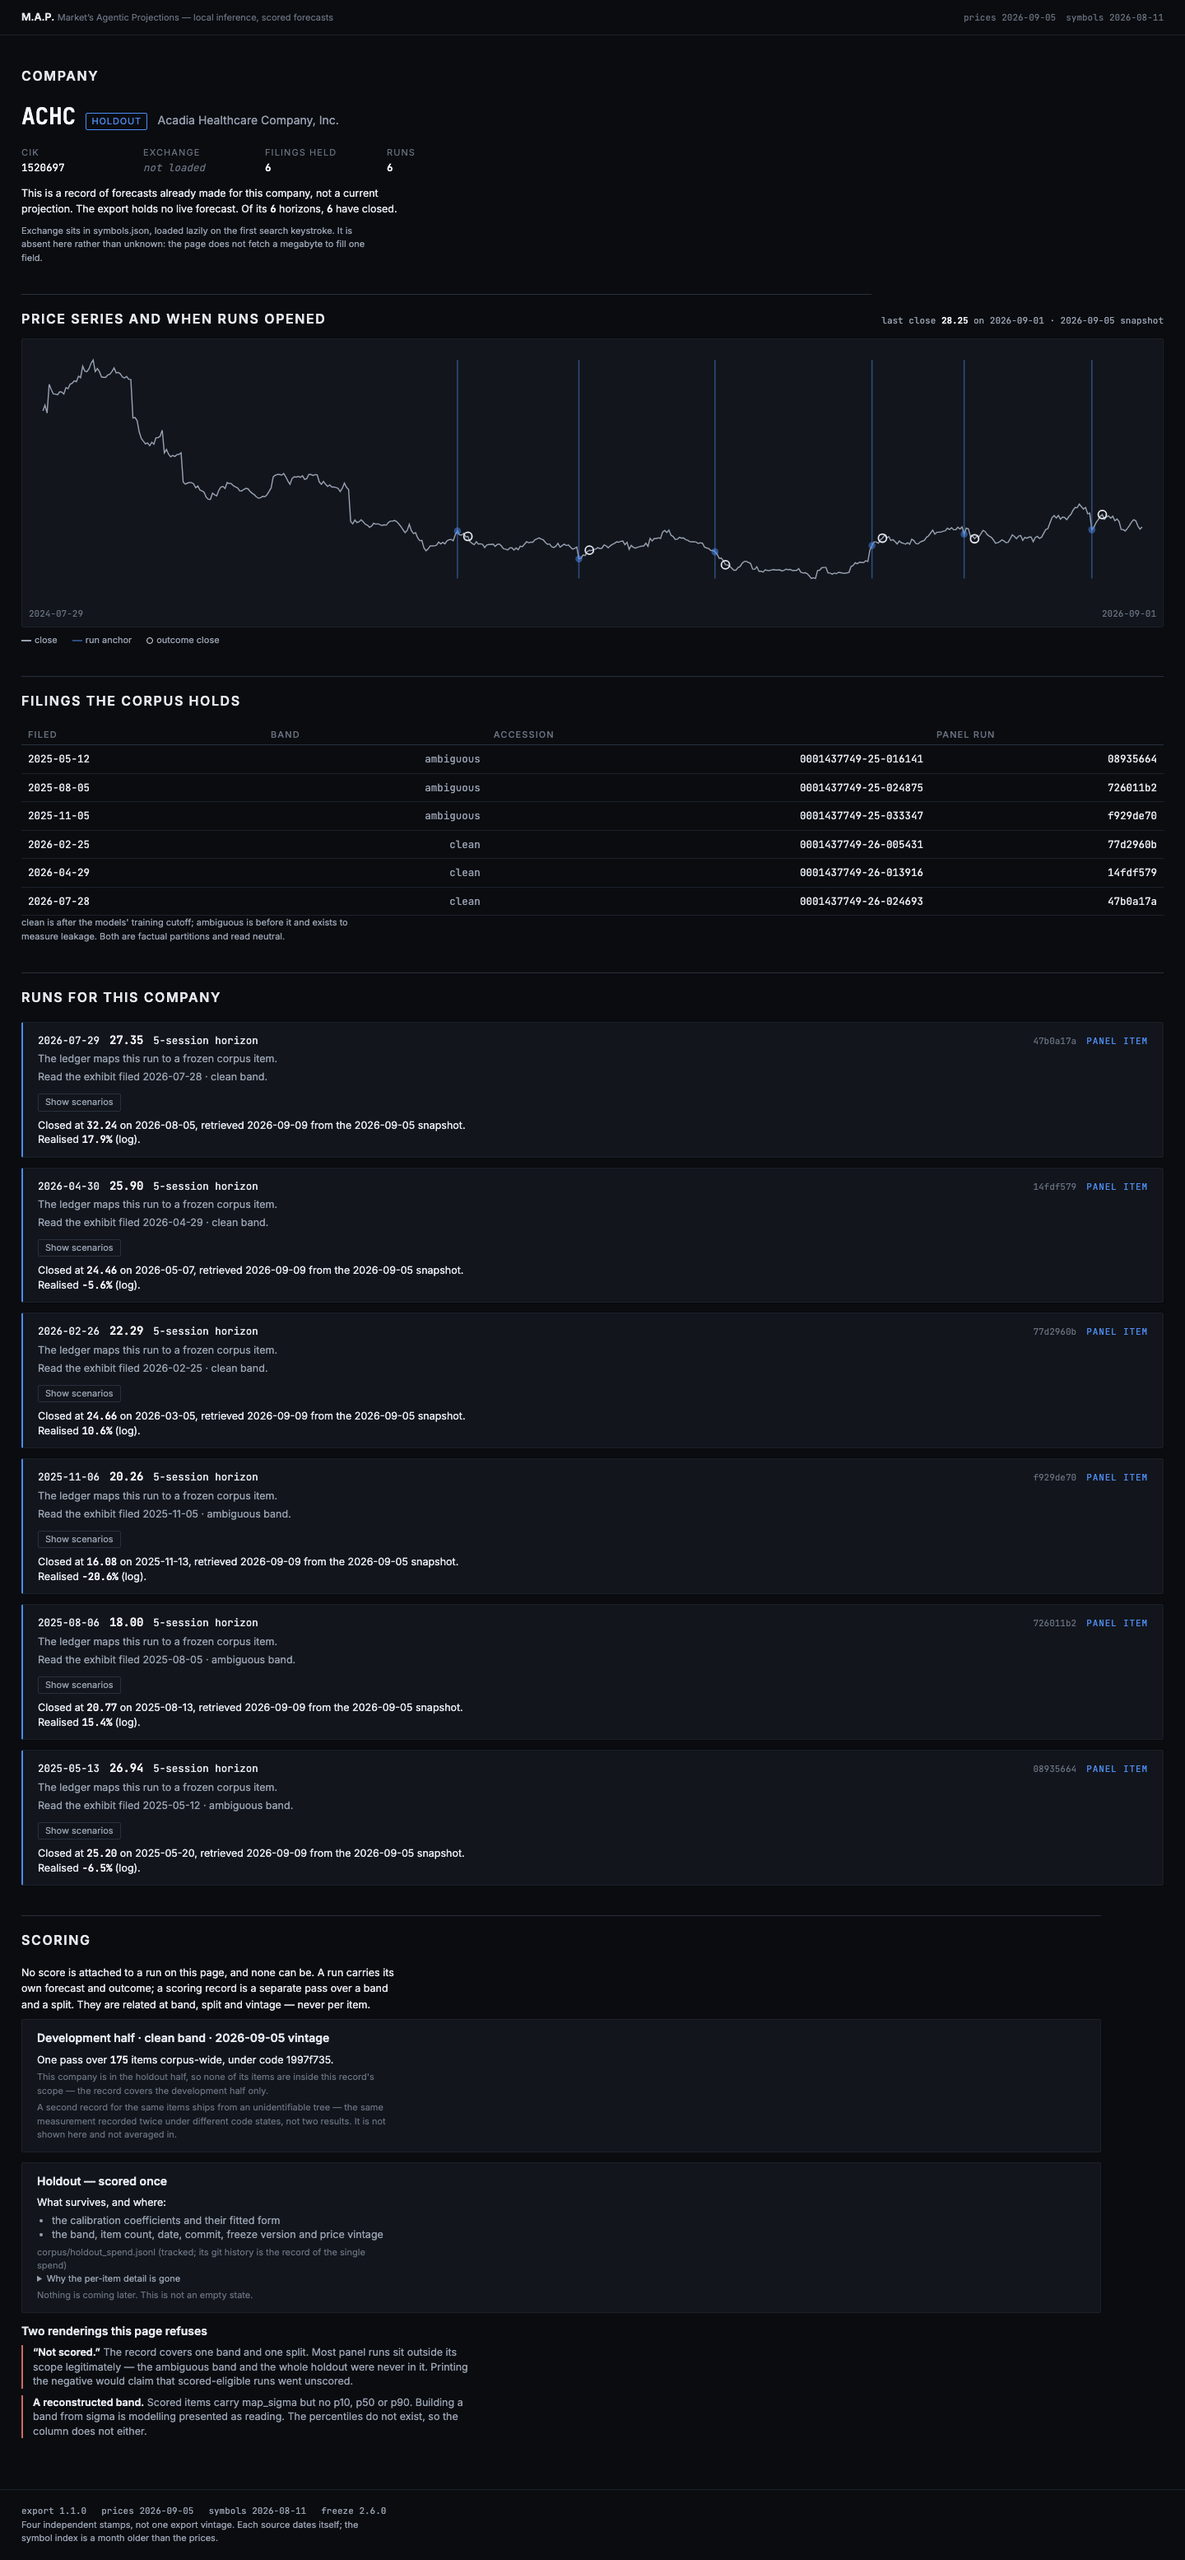
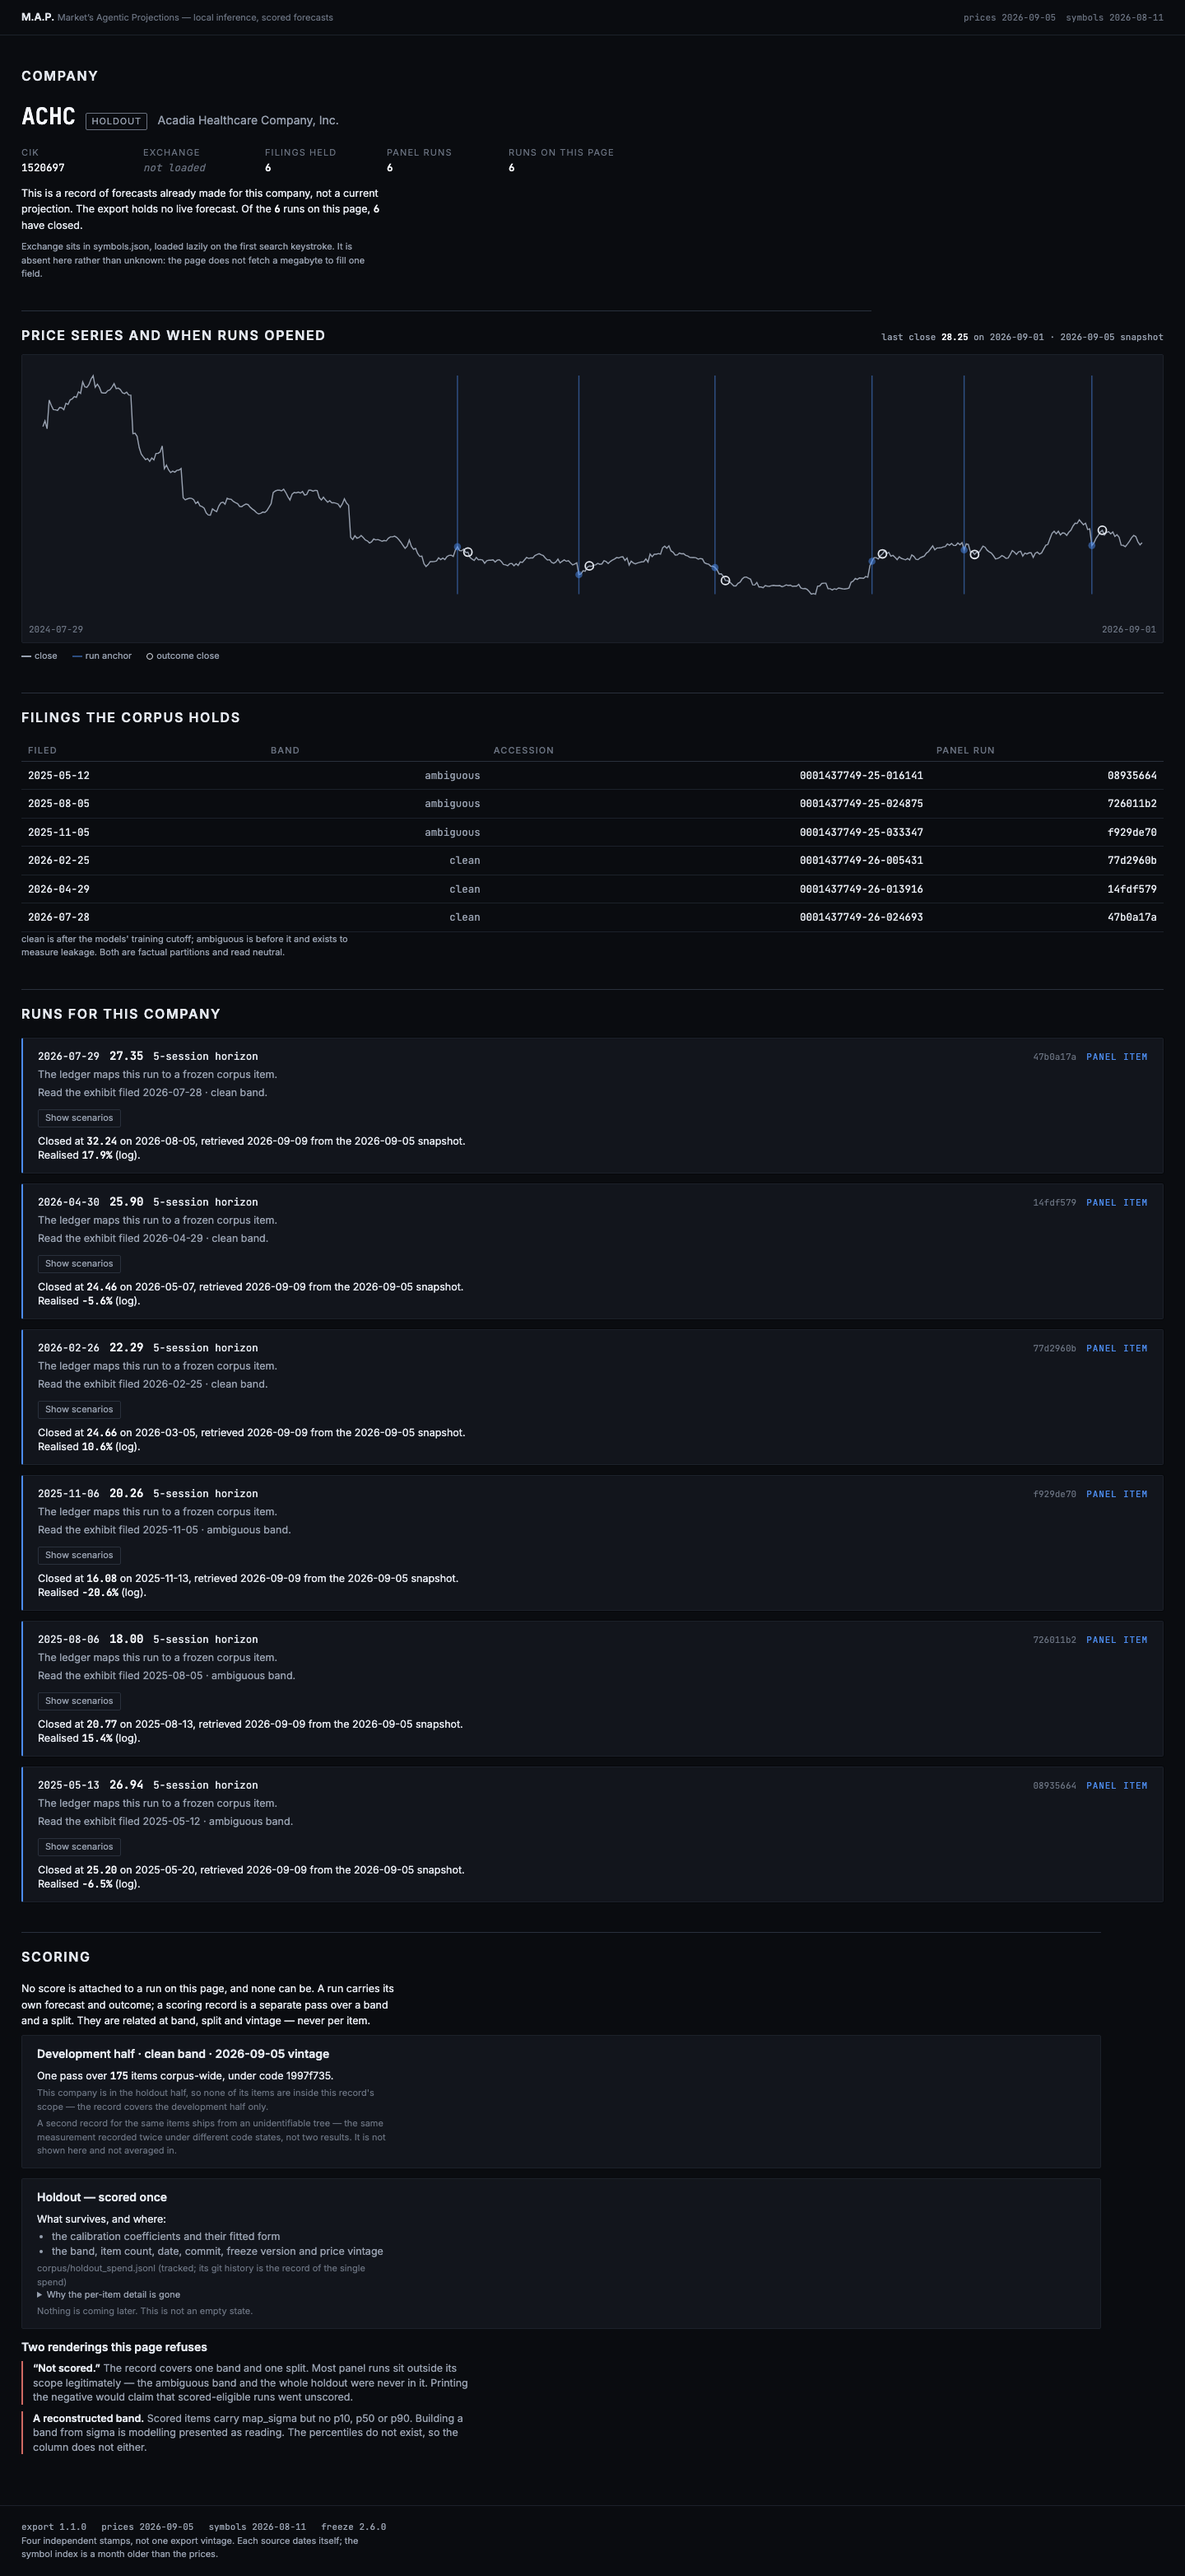
Five screen defects from reviewing design/screens
One commit because the four-defect fixes were never committed: the command that
should have made them ran in the wrong repository, so they sat in the working
tree and the badge change swept them up. Content is right; the message now
covers what is actually here.

1. THE RUN COUNTS WERE TWO DIFFERENT THINGS, NEITHER NAMED. Search counts panel
   runs -- corpus.json's filings[].runs -- and the company page counted every run
   for the ticker. TSLA is 12 and 16, the difference being 4 repeats; ACGL is 5
   and 5, with 6 filings because one settled without a run. Both are legitimate,
   so both now say which: the search row reads "panel runs", the company page
   shows "Panel runs" and "Runs on this page" as separate facts.

2. THE FILING+1 DERIVATION AGAIN, its third appearance. panelRunBlock found a
   repeat's filing with `filing + 1 day === anchor`, right for 635 of the 701
   panel runs and wrong for the 66 whose anchor IS the filing date. TSLA's
   2026-01-02 is one, so three of its repeats printed ATI's "whose panel run does
   not exist" while a9b0c9d8 sat in the filings table on the same page.

   A repeat's panel run is now the ledger run at the same anchor -- 73 of 74
   resolve, ATI is the one true absence -- and the filing date comes from that
   run's ledger_item rather than arithmetic. Where no panel run exists there is
   nothing to carry the date, so the filing is matched on anchor OR anchor-1,
[…]

diff --git a/ui/assets/js/ui/company-runs.js b/ui/assets/js/ui/company-runs.js
@@ -36,11 +36,11 @@ export function renderRuns(root, { runs, company, open, onToggle }) {
 
   const list = document.createElement("div");
   list.className = "cmp-cards";
-  for (const run of rows) list.append(card(run, company, open, onToggle));
+  for (const run of rows) list.append(card(run, company, open, onToggle, rows));
   root.append(list);
 }
 
-function card(run, company, open, onToggle) {
+function card(run, company, open, onToggle, siblings) {
   const art = document.createElement("article");
   art.className = "cmp-card";
   art.dataset.relation = run.corpus_relation;
@@ -86,7 +86,7 @@ function card(run, company, open, onToggle) {
     art.append(p);
   }
 
-  if (run.corpus_relation === "repeat_of_exhibit") art.append(panelRunBlock(run, company));
+  if (run.corpus_relation === "repeat_of_exhibit") art.append(panelRunBlock(run, company, siblings));
 
   art.append(disclosure(run, open, onToggle));
   art.append(outcomeBlock(run));
@@ -99,9 +99,22 @@ function card(run, company, open, onToggle) {
 /* The three panel-run states                                          */
 /* ------------------------------------------------------------------ */
 
-function panelRunBlock(run, company) {
-  const filed = filingReadBy(run, company);
-  const panel = filed && filed.ran ? filed : null;
+function panelRunBlock(run, company, siblings) {
+  /* A repeat's panel run is the LEDGER RUN AT THE SAME ANCHOR, not a filing found
+     by date arithmetic. This resolved by `filing + 1 day`, which is right for 635
+     of the 701 panel runs and wrong for the 66 whose anchor IS the filing date —
+     TSLA's 2026-01-02 is one, so three of its repeats fell through to "(filing
+     not identified)" and printed ATI's copy about a panel run that does not
+     exist, while a9b0c9d8 sat in the filings table on the same page.
+
+     Anchor matching resolves 73 of the 74 repeats. ATI's is the one true
+     absence. */
+  const panel = siblings.find(
+    (r) => r.corpus_relation === "ledger_item" && r.anchor_date === run.anchor_date,
+  ) ?? null;
+  const filed = panel && !isAbsent(panel.ledger_item)
+    ? panel.ledger_item.filing_date          // carried, never derived
+    : filingNear(run, company);              // no panel run: the filing itself
 
   const box = document.createElement("div");
   box.className = panel ? "cmp-panel-link" : "cmp-panel-missing";
@@ -110,8 +123,10 @@ function panelRunBlock(run, company) {
     // STATE 1 — linked, and the link is marked inferred.
     box.append(
       document.createTextNode("Read the exhibit filed "),
-      chromeText(panel.filed, "the filing date this repeat read"),
-      document.createTextNode("; a panel run is anchored "),
+      chromeText(filed, "the filing date this repeat read, from the panel run's ledger entry"),
+      document.createTextNode("; the panel's run is "),
+      chromeText(panel.run_id.slice(0, 8), "the panel run's abbreviated id"),
+      document.createTextNode(", anchored "),
       chromeText(run.anchor_date, "the anchor the pairing matched on"),
       document.createTextNode("."),
     );
@@ -142,7 +157,7 @@ function panelRunBlock(run, company) {
   box.append(
     document.createTextNode("Read the exhibit filed "),
     filed
-      ? chromeText(filed.filed, "the filing this repeat read")
+      ? chromeText(filed, "the filing this repeat read")
       : document.createTextNode("(filing not identified)"),
     document.createTextNode(
       ", whose panel run does not exist: the corpus settled that filing as a " +
@@ -153,10 +168,19 @@ function panelRunBlock(run, company) {
   return box;
 }
 
-/** The filing a repeat read, found the only way the export allows. A corpus run
-    opens the day after the filing it reads. */
-function filingReadBy(run, company) {
-  return company.filings.find((f) => nextDay(f.filed) === run.anchor_date) ?? null;
+/** The filing a repeat read, for the case where NO panel run exists to carry the
+    date. Used only there: where a panel run exists its `ledger_item.filing_date`
+    is carried and read directly.
+
+    An anchor is the resolved trading session for a forecast dated the day after
+    its filing, so it is the filing date or the next day — across all 701 panel
+    runs it is one of those two and never anything else (66 and 635). Matching
+    both is exhaustive; matching only `+1` is the bug this replaced. */
+function filingNear(run, company) {
+  const hit = company.filings.find(
+    (f) => f.filed === run.anchor_date || nextDay(f.filed) === run.anchor_date,
+  );
+  return hit ? hit.filed : null;
 }
 
 function nextDay(iso) {

diff --git a/ui/assets/js/ui/company-identity.js b/ui/assets/js/ui/company-identity.js
@@ -25,7 +25,11 @@ export function renderIdentity(root, { company, runs }) {
   tick.textContent = company.ticker;
   head.append(tick);
 
-  const badge = el("span", `cmp-badge cmp-badge--${company.split}`, company.split);
+  // No per-split class: the two halves are a factual partition and carry no
+  // colour. `data-split` stays as a hook for anything that needs to select on it
+  // without implying one half is the notable one.
+  const badge = el("span", "cmp-badge", company.split);
+  badge.dataset.split = company.split;
   badge.dataset.chrome = "which half of the panel this company is in";
   head.append(badge);
 
@@ -38,7 +42,11 @@ export function renderIdentity(root, { company, runs }) {
   // fetch 864 KB to fill one field.
   addFact(facts, "Exchange", el("em", "cmp-absent", "not loaded"));
   addFact(facts, "Filings held", renderFigure(figure(company.filings.length, MEASURED, "int")));
-  addFact(facts, "Runs", renderFigure(figure(countRuns(runs), MEASURED, "int")));
+  /* TWO COUNTS, because they are two things and a page that shows one unlabelled
+     disagrees with the search screen for no visible reason. TSLA: 12 panel runs
+     and 16 runs in all, the difference being 4 repeats. ACGL: 5 and 5. */
+  addFact(facts, "Panel runs", renderFigure(figure(panelRuns(company), MEASURED, "int")));
+  addFact(facts, "Runs on this page", renderFigure(figure(countRuns(runs), MEASURED, "int")));
   root.append(facts);
 
   root.append(standing(company, runs));
@@ -48,6 +56,15 @@ export function renderIdentity(root, { company, runs }) {
   // On a page already showing six runs it tells a reader nothing they cannot see.
 }
 
+/** Runs the ledger maps to this company's filings — what the search screen
+    counts, and what `corpus.json` holds. Excludes repeats and anything outside
+    the corpus. */
+function panelRuns(company) {
+  return company.filings.reduce((n, f) => n + f.run_ids.length, 0);
+}
+
+/** Every run for this ticker, across all four document sources: what this page
+    actually lists as cards. */
 function countRuns(runs) {
   // Four files, counted per source and summed here — never merged into one array
   // and filtered, which is how an out-of-corpus run reaches a corpus figure.
@@ -62,10 +79,10 @@ function standing(company, runs) {
   p.append(
     document.createTextNode(
       "This is a record of forecasts already made for this company, not a current " +
-        "projection. The export holds no live forecast. Of its ",
+        "projection. The export holds no live forecast. Of the ",
     ),
     renderFigure(figure(rows.length, MEASURED, "int")),
-    document.createTextNode(" horizons, "),
+    document.createTextNode(" runs on this page, "),
     renderFigure(figure(closed, MEASURED, "int")),
     document.createTextNode(" have closed."),
   );

diff --git a/ui/assets/styles/company.css b/ui/assets/styles/company.css
@@ -63,12 +63,20 @@
 }
 .cmp-name { color: var(--ink-2); font-size: var(--step-1); }
 
+/* The text measured 6.62:1 against the row and was never the problem — the
+   BORDER was. `--rule-2` on a sunken row is about 1.3:1, so the outline vanished
+   and the word floated, reading as a failed badge rather than a quiet one. The
+   holdout variant looked fine only because its accent border drew the shape. */
 .cmp-badge {
   font-size: var(--step--1); text-transform: uppercase; letter-spacing: .08em;
-  padding: .1rem .4rem; border-radius: var(--radius); border: 1px solid var(--rule-2);
+  padding: .1rem .4rem; border-radius: var(--radius); border: 1px solid var(--ink-3);
   color: var(--ink-2);
 }
-.cmp-badge--holdout { border-color: var(--accent); color: var(--accent); }
+/* NO COLOUR VARIANT. dev and holdout are a factual partition, like clean and
+   ambiguous, and those read neutral for exactly this reason. Accent means panel
+   membership in this page's colour discipline -- and both halves ARE the panel,
+   so accenting one implied a distinction that does not exist. The word says
+   which half; the colour says nothing, because there is nothing to say. */
 
 .cmp-facts {
   display: flex; flex-wrap: wrap; gap: var(--sp-3) var(--sp-7);
@@ -211,7 +219,15 @@
 /* ---- footer and empty state -------------------------------------- */
 .cmp-footer { padding-block: var(--sp-5); border-top: 1px solid var(--rule); }
 .cmp-stamps { display: flex; gap: var(--sp-5); flex-wrap: wrap; font-family: var(--font-mono); font-size: var(--step--1); color: var(--ink-2); }
-.cmp-empty { max-width: 58ch; margin: var(--sp-7) auto; }
+/* A page whose subject does not exist has one thing to say, so it says it in the
+   middle of the field rather than in a narrow column pinned to the top of a tall
+   empty one. min-height leaves room for the masthead and footer. */
+.cmp-empty {
+  max-width: 62ch; margin-inline: auto;
+  min-height: 60vh; display: flex; flex-direction: column; justify-content: center;
+}
+.cmp-empty h1 { margin: 0 0 var(--sp-4); }
+.cmp-empty .cmp-standing { margin-bottom: var(--sp-3); }
 .cmp-empty pre {
   background: var(--sunken); border: 1px solid var(--rule); border-radius: var(--radius);
   padding: var(--sp-3); font-size: var(--step-0); overflow-x: auto;

diff --git a/ui/assets/js/ui/company-filings.js b/ui/assets/js/ui/company-filings.js
@@ -80,7 +80,12 @@ function panelRunCell(filing, repeats) {
   label.textContent = "held, not run";
   wrap.append(label);
 
-  const readBy = repeats.some((r) => nextDay(filing.filed) === r.anchor_date);
+  // Same window as company-runs.js: an anchor is the filing date or the next
+  // day, never anything else across all 701 panel runs. Matching only `+1` missed
+  // the 66 where they coincide.
+  const readBy = repeats.some(
+    (r) => r.anchor_date === filing.filed || nextDay(filing.filed) === r.anchor_date,
+  );
   if (readBy) {
     const note = document.createElement("div");
     note.className = "cmp-subnote";
@@ -90,9 +95,10 @@ function panelRunCell(filing, repeats) {
   return wrap;
 }
 
-/** A corpus forecast opens the day after the filing it reads. Used ONLY to spot
-    a repeat that read an unrun filing — never to produce a filing_date, which is
-    carried on `ledger_item` and equal to the anchor on just 66 of 701 runs. */
+/** Used ONLY to spot a repeat that read an unrun filing, and only alongside an
+    exact-date match — never to produce a filing_date, which is carried on
+    `ledger_item`. The 66 of 701 runs whose anchor IS the filing date are exactly
+    the ones a `+1`-only rule gets wrong. */
 function nextDay(iso) {
   const d = new Date(`${iso}T00:00:00Z`);
   d.setUTCDate(d.getUTCDate() + 1);

diff --git a/ui/assets/js/ui/search-box.js b/ui/assets/js/ui/search-box.js
@@ -127,10 +127,15 @@ function corpusRow(row) {
   // example names, which gave 117 of the 120 corpus companies no URL.
   a.href = `company.html?ticker=${encodeURIComponent(row.ticker)}`;
   const badge = el("span", "cmp-badge", row.split);
-  if (row.split === "holdout") badge.classList.add("cmp-badge--holdout");
+  badge.dataset.split = row.split;
   const counts = el("span", "srch-counts");
   counts.append(
-    count(row.filings), chromeText(" filings · ", "separator"), count(row.runs), chromeText(" runs", "runs the ledger maps to those filings"),
+    count(row.filings),
+    chromeText(" filings · ", "separator"),
+    count(row.runs),
+    // NAMED, because the company page counts something else: every run for the
+    // ticker, repeats included. TSLA is 12 here and 16 there.
+    chromeText(" panel runs", "runs the ledger maps to those filings; repeats are not counted"),
   );
   a.append(
     el("span", "srch-ticker", row.ticker),
